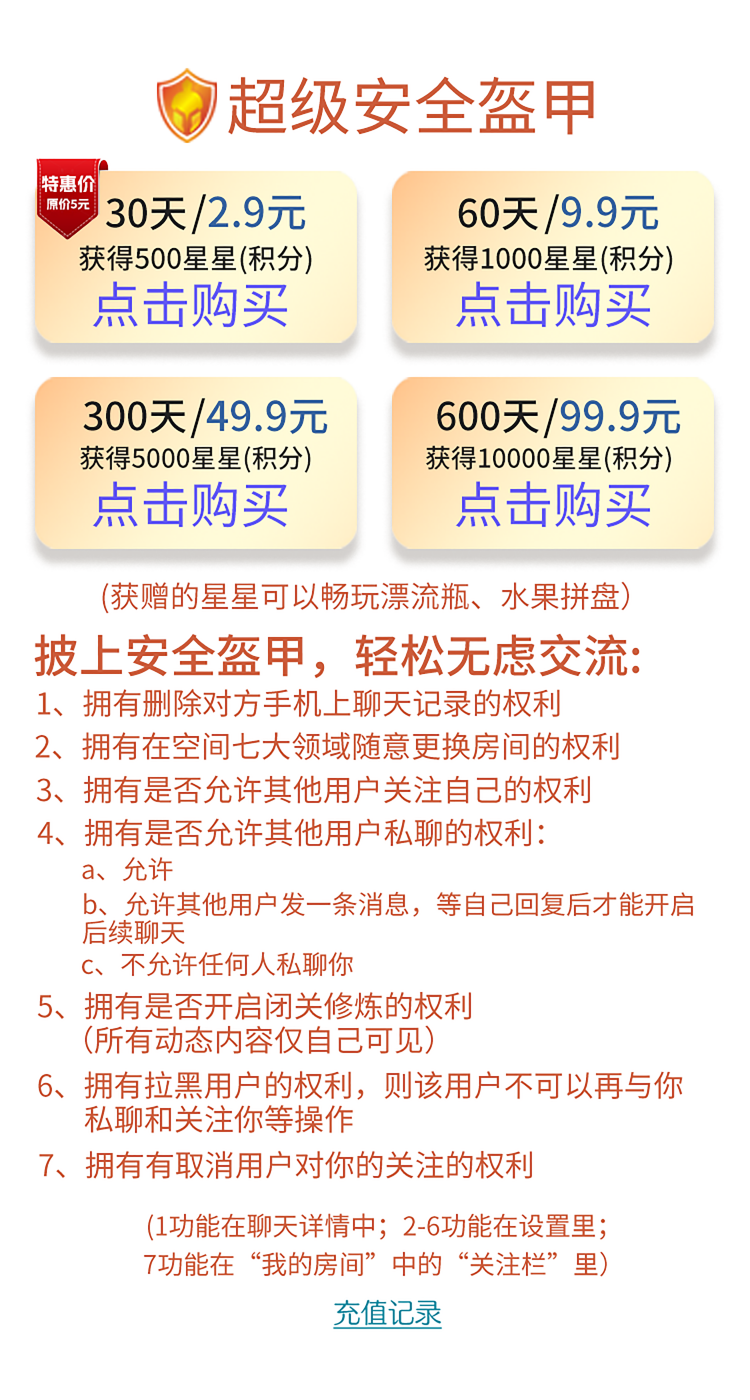
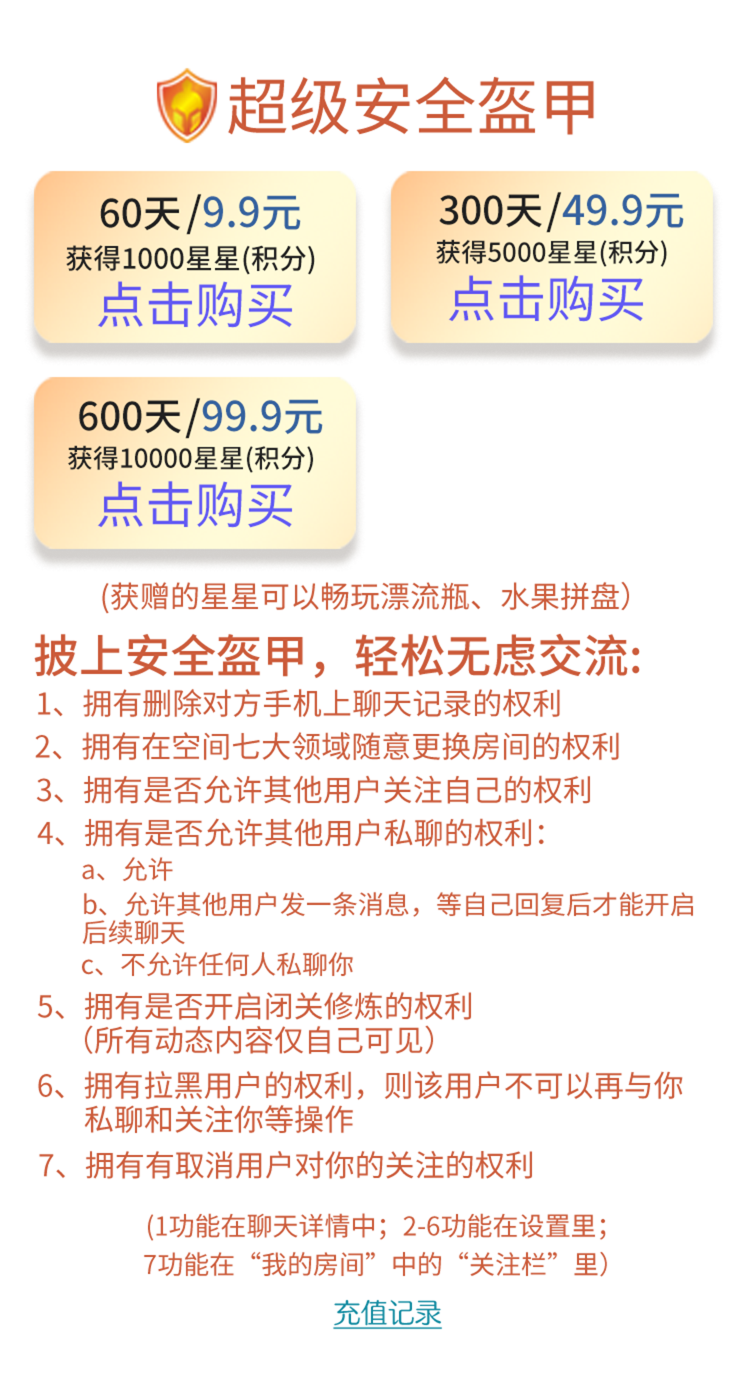
feat：更新ui图片等

diff --git a/pages_userActivity/bottleDetail/bottleDetail.vue b/pages_userActivity/bottleDetail/bottleDetail.vue
@@ -8,41 +8,33 @@
 
 		<div class="bg-box">
 			<div class="bottle-box">
-				<div class="box-matter">
-					<div class="dynamic">
-						<img class="dy-img" :src="bottleUserInfo.avatar" alt="" />
+				<div class="dynamic">
+					<img class="dy-img" :src="bottleUserInfo.avatar" alt="" />
+				</div>
+				<!-- 文本内容 -->
+				<div class="content">
+					<div class="content-c">{{ bottleInfo.content }}</div>
+					<video v-if="aImgList.length === 0 && avideo" :src="avideo"></video>
+					<u-album v-if="aImgList.length !== 0 && !avideo && aImgList.length > 4" :urls="aImgList" singleSize="300rpx" multipleSize="140rpx"></u-album>
+					<div class="ua-box" v-if="aImgList.length !== 0 && !avideo && aImgList.length < 5 && aImgList.length > 1">
+						<u-album :urls="aImgList" singleSize="300rpx" multipleSize="180rpx" rowCount="2"></u-album>
 					</div>
-					<!-- 文本内容 -->
-					<div class="content">
-						<div class="content-c">{{ bottleInfo.content }}</div>
-						<video v-if="aImgList.length === 0 && avideo" :src="avideo"></video>
-						<u-album v-if="aImgList.length !== 0 && !avideo && aImgList.length > 4" :urls="aImgList" singleSize="300rpx" multipleSize="140rpx"></u-album>
-						<div class="ua-box" v-if="aImgList.length !== 0 && !avideo && aImgList.length < 5 && aImgList.length > 1">
-							<u-album :urls="aImgList" singleSize="300rpx" multipleSize="180rpx" rowCount="2"></u-album>
+					<image class="singleImg" v-if="aImgList.length === 1" :src="aImgList" mode="widthFix" @click="previewImg"></image>
+				</div>
+				<!-- 回复 -->
+				<div v-for="i in recordsList" :key="i.uid" class="record-box" :style="{ border: type === 0 ? '2rpx solid #556eef' : 'none', padding: type === 0 ? '20rpx' : 0 }">
+					<div v-if="i.comment" class="dynamic record-userinfo">
+						<img class="dy-img" :src="type !== 0 ? i.avatar : i.userInfo.avatar" alt="" />
+						<div class="dy-name record-comment">
+							{{ i.comment }}
 						</div>
-						<image class="singleImg" v-if="aImgList.length === 1" :src="aImgList" mode="widthFix" @click="previewImg"></image>
 					</div>
-					<!-- 回复 -->
-					<div
-						v-for="i in recordsList"
-						:key="i.uid"
-						class="record-box"
-						:style="{ border: type === 0 ? '2rpx solid #556eef' : 'none', padding: type === 0 ? '20rpx' : 0 }"
-					>
-						<div v-if="i.comment" class="dynamic record-userinfo">
-							<img class="dy-img" :src="type !== 0 ? i.avatar : i.userInfo.avatar" alt="" />
-							<div class="dy-name record-comment">
-								{{ i.comment }}
-							</div>
-						</div>
-						<div class="action-box">
-							<div v-if="type === 1 && !i.comment" class="action-btns record-then" @click="showInput = true">回复</div>
-							<div v-if="type === 1" class="action-btns pick-again" @click="pickBottle()">再捡一次</div>
-							<div v-if="type !== 1 && i.comment" class="action-btns open-chat" @click="goChatWith(i)">开启私聊</div>
-						</div>
+					<div class="action-box">
+						<div v-if="type === 1 && !i.comment" class="action-btns record-then" @click="showInput = true">回复</div>
+						<div v-if="type === 1" class="action-btns pick-again" @click="pickBottle()">再捡一次</div>
+						<div v-if="type !== 1 && i.comment" class="action-btns open-chat" @click="goChatWith(i)">开启私聊</div>
 					</div>
 				</div>
-				<img class="box-img" src="../ua_static/bottle-letter.png" alt="" />
 			</div>
 		</div>
 		<!-- 回复弹窗 -->
@@ -77,7 +69,7 @@
 		<!-- 再捡一次 -->
 		<u-popup :show="showPickAgain" :round="20" :closeOnClickOverlay="false" mode="center" :safeAreaInsetBottom="false">
 			<div class="pop-borders pop-pick">
-				<div class="pick-text">每次捡漂流瓶都须送出五颗星星</div>
+				<div class="pick-text">每次捡漂流瓶都须送出10颗星星</div>
 				<div class="pop-btn-box">
 					<div
 						class="pop-oks"
@@ -179,7 +171,7 @@ export default {
 				console.log('请求我的瓶子的所有回复');
 				console.log(res);
 				this.recordsList = res.result.records.filter((record) => record.isComment === 1);
-				this.recordsList = [{ comment: '1111' }, { comment: '1111' }, { comment: '1111' }, { comment: '1111' }];
+				// this.recordsList = [{ comment: '1111' }, { comment: '1111' }, { comment: '1111' }, { comment: '1111' }];
 			});
 		},
 		async sendText() {
@@ -314,24 +306,17 @@ export default {
 	border: 4rpx solid #556eef;
 	margin: auto;
 	box-sizing: border-box;
-
-	.box-matter {
-		padding: 50rpx 40rpx 14rpx;
-		height: 600rpx;
-		overflow-y: auto;
-		white-space: pre-wrap;
-		word-wrap: break-word;
-	}
-
-	.box-img {
-		position: sticky;
-		width: 684rpx;
-		height: 330rpx;
-		left: 0rpx;
-		bottom: 0rpx;
-		border-radius: 0 0 48rpx 48rpx;
-	}
+	background-color: #ffffff;
+	background-image: url('@/pages_userActivity/ua_static/bottle-letters.png');
+	background-size: 100% auto;
+	background-repeat: no-repeat;
+	background-position: bottom;
+	padding: 50rpx 40rpx;
+	overflow-y: auto;
+	white-space: pre-wrap;
+	word-wrap: break-word;
 }
+
 .dynamic {
 	display: flex;
 	align-items: center;
@@ -437,12 +422,5 @@ button::after {
 }
 .singleImg {
 	width: 300rpx;
-}
-::-webkit-scrollbar {
-	display: block !important;
-	width: 10rpx !important;
-	height: 10rpx !important;
-	-webkit-appearance: block !important;
-	color: #049dfc;
 }
 </style>

diff --git a/pages_userActivity/chatList/chatList.vue b/pages_userActivity/chatList/chatList.vue
@@ -24,29 +24,31 @@
 					<u-icon customStyle="marginLeft:20rpx" name="reload" color="#666" size="18" @click="reloadAll"></u-icon>
 				</div>
 			</template>
-			<view class="content-list" v-for="(i, index) in chatList" :key="i.uid" @click="goChatWith(i)">
-				<!-- 头像 -->
-				<img class="list-img" :src="i.avatar" alt="" />
-				<div v-if="i.unReadCount > 0" class="mes-dot"></div>
-				<!-- 姓名和信息 -->
-				<div class="content-info">
-					<div class="info-name">
-						<div class="u-name">
-							{{ i.remark ? i.remark : i.username }}
+			<div v-for="(i, index) in chatList" :key="i.uid" @click="goChatWith(i)">
+				<view v-if="i.uid" class="content-list">
+					<!-- 头像 -->
+					<img class="list-img" :src="i.avatar" alt="" />
+					<div v-if="i.unReadCount > 0" class="mes-dot"></div>
+					<!-- 姓名和信息 -->
+					<div class="content-info">
+						<div class="info-name">
+							<div class="u-name">
+								{{ i.remark ? i.remark : i.username }}
+							</div>
+						</div>
+						<div class="info-des">
+							{{ i.lastMsg ? i.lastMsg : ' ' }}
 						</div>
 					</div>
-					<div class="info-des">
-						{{ i.lastMsg ? i.lastMsg : ' ' }}
+					<!-- 小红点和关系 -->
+					<!-- <div class="red-dot">133</div> -->
+					<div v-if="i.relations !== 0">
+						<img v-if="i.relations === 1" class="list-relative-img" src="../../static/fans.png" alt="" />
+						<img v-if="i.relations === 2" class="list-relative-img" src="../../static/foucs.png" alt="" />
+						<img v-if="i.relations === 3" class="list-relative-img" src="../../static/double.png" alt="" />
 					</div>
-				</div>
-				<!-- 小红点和关系 -->
-				<!-- <div class="red-dot">133</div> -->
-				<div v-if="i.relations !== 0">
-					<img v-if="i.relations === 1" class="list-relative-img" src="../../static/fans.png" alt="" />
-					<img v-if="i.relations === 2" class="list-relative-img" src="../../static/foucs.png" alt="" />
-					<img v-if="i.relations === 3" class="list-relative-img" src="../../static/double.png" alt="" />
-				</div>
-			</view>
+				</view>
+			</div>
 		</z-paging>
 	</view>
 </template>

diff --git a/pages/currentBottle/currentBottle.vue b/pages/currentBottle/currentBottle.vue
@@ -21,7 +21,7 @@
 		<!-- 再捡一次 -->
 		<u-popup :show="showPickAgain" :round="20" :closeOnClickOverlay="false" mode="center" :safeAreaInsetBottom="false">
 			<div class="pop-borders pop-pick">
-				<div class="pick-text">每次捡漂流瓶都须送出五颗星星</div>
+				<div class="pick-text">每次捡漂流瓶都须送出10颗星星</div>
 				<div class="pop-btn-box">
 					<div
 						class="pop-oks"
@@ -157,6 +157,35 @@ export default {
 			uni.navigateTo({
 				url: '../../pages_userActivity/bottleMessageList/bottleMessageList'
 			});
+		},
+		goOwnPageOrThirdParty(index) {
+			if (this.list1[index].linkType === 1) {
+				wx.navigateToMiniProgram({
+					appId: this.list1[index].appId,
+					path: this.list1[index].url,
+					envVersion: 'release',
+					success(res) {
+						console.log('跳转小程序成功！', res);
+					}
+				});
+			} else if (this.list1[index].linkType === 0) {
+				if (
+					this.list1[index].url === '../pages/user/user' ||
+					this.list1[index].url === '../pages/index/index' ||
+					this.list1[index].url === '../pages/index2/index2' ||
+					this.list1[index].url === '../pages/currentBottle/currentBottle'
+				) {
+					uni.switchTab({
+						url: this.list1[index].url
+					});
+				} else {
+					uni.navigateTo({
+						url: this.list1[index].url
+					});
+				}
+			} else {
+				return;
+			}
 		}
 	}
 };

diff --git a/pages_costMoney/costMoney/costMoney.vue b/pages_costMoney/costMoney/costMoney.vue
@@ -6,7 +6,7 @@
 			<div>礼单</div>
 		</div>
 		<div class="cost">
-			<div class="cost-item" v-for="(i, index) in 4" :key="index" @click="payMoney(i)">花钱</div>
+			<div class="cost-item" v-for="(i, index) in 3" :key="index" @click="payMoney(i)">花钱</div>
 		</div>
 		<div class="cost-record" @click="openRecord">充值记录</div>
 		<!-- 礼单列表 -->
@@ -96,7 +96,7 @@ export default {
 	methods: {
 		//充值
 		payMoney(i) {
-			i === 0 ? (this.num = 290) : i === 1 ? (this.num = 990) : i === 2 ? (this.num = 4990) : (this.num = 9990);
+			i === 0 ? (this.num = 990) : i === 1 ? (this.num = 4990) : (this.num = 9990);
 			// this.loading = true;
 			if (this.timer) {
 				return;

diff --git a/pages_userActivity/otherUser/otherUser.vue b/pages_userActivity/otherUser/otherUser.vue
@@ -8,7 +8,7 @@
 			<div class="box-title">
 				<Cropping @upload="doUpload2" ref="cropping2" selWidth="300upx" selHeight="300upx" />
 				<!-- 小背景 -->
-				<img :src="coverImage === '' ? 'https://www.zairongyifang.com:8080/filePath/app/20243/compressed_00654a31bb.png' : coverImage" alt="" class="my-img" />
+				<img :src="coverImage === '' ? 'https://www.zairongyifang.com:8080/filePath/app/20244/compressed_65b8352b33.png' : coverImage" alt="" class="my-img" />
 
 				<!-- 覆盖盒子/相对定位 -->
 				<div class="width-bottom"></div>

diff --git a/pages/user/user.vue b/pages/user/user.vue
@@ -5,7 +5,7 @@
 			<div class="box-title">
 				<Cropping @upload="doUpload2" ref="cropping2" selWidth="300upx" selHeight="300upx" />
 				<!-- 小背景 -->
-				<img :src="coverImage === '' ? 'https://www.zairongyifang.com:8080/filePath/app/20243/compressed_00654a31bb.png' : coverImage" alt="" class="my-img" />
+				<img :src="coverImage === '' ? 'https://www.zairongyifang.com:8080/filePath/app/20244/compressed_65b8352b33.png' : coverImage" alt="" class="my-img" />
 
 				<!-- 覆盖盒子/相对定位 -->
 				<div class="width-bottom">

diff --git a/pages/index/index.vue b/pages/index/index.vue
@@ -198,7 +198,7 @@ export default {
 			//下注
 			showBotting: false,
 			bottingAgain: true,
-			startNum: 5,
+			startNum: 20,
 			//中奖
 			showGetGift: false,
 			nowPriceId: null,
